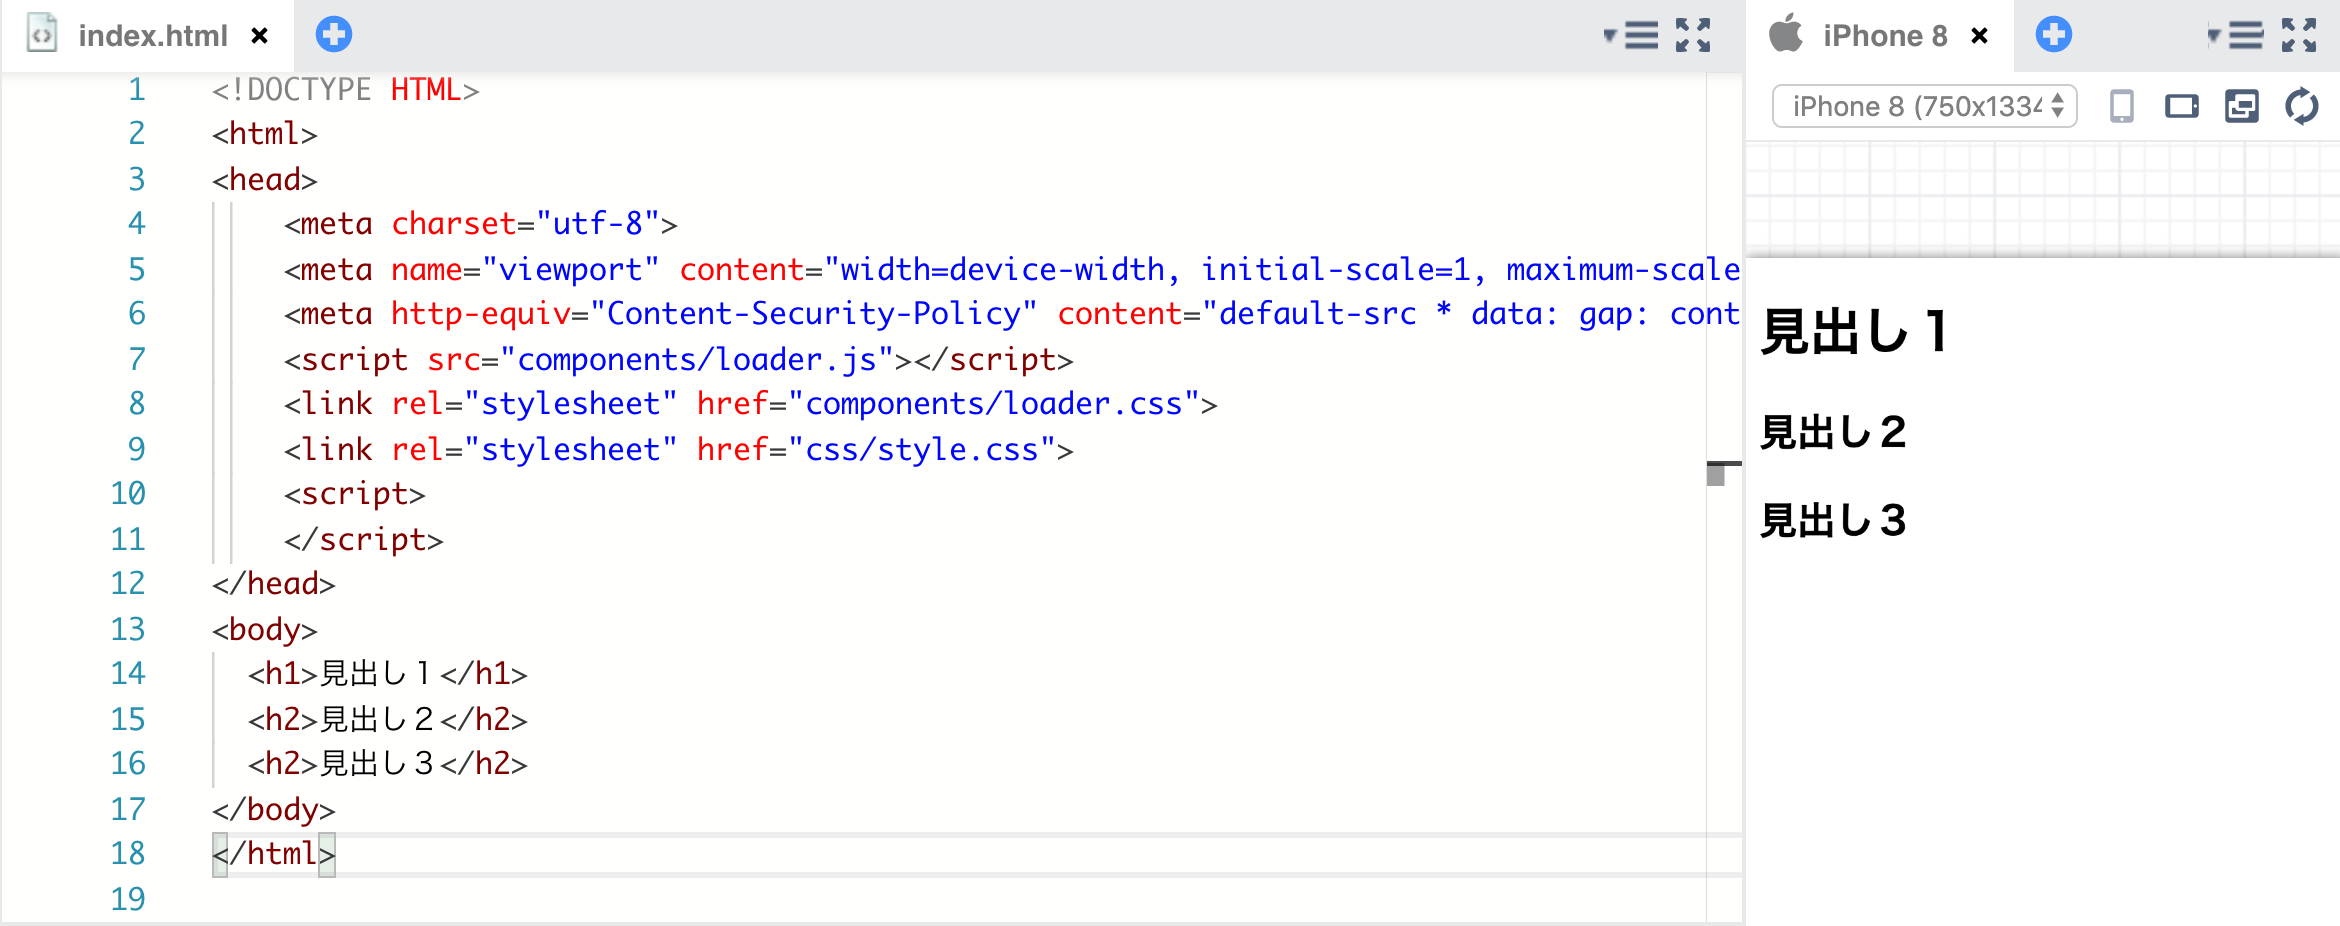
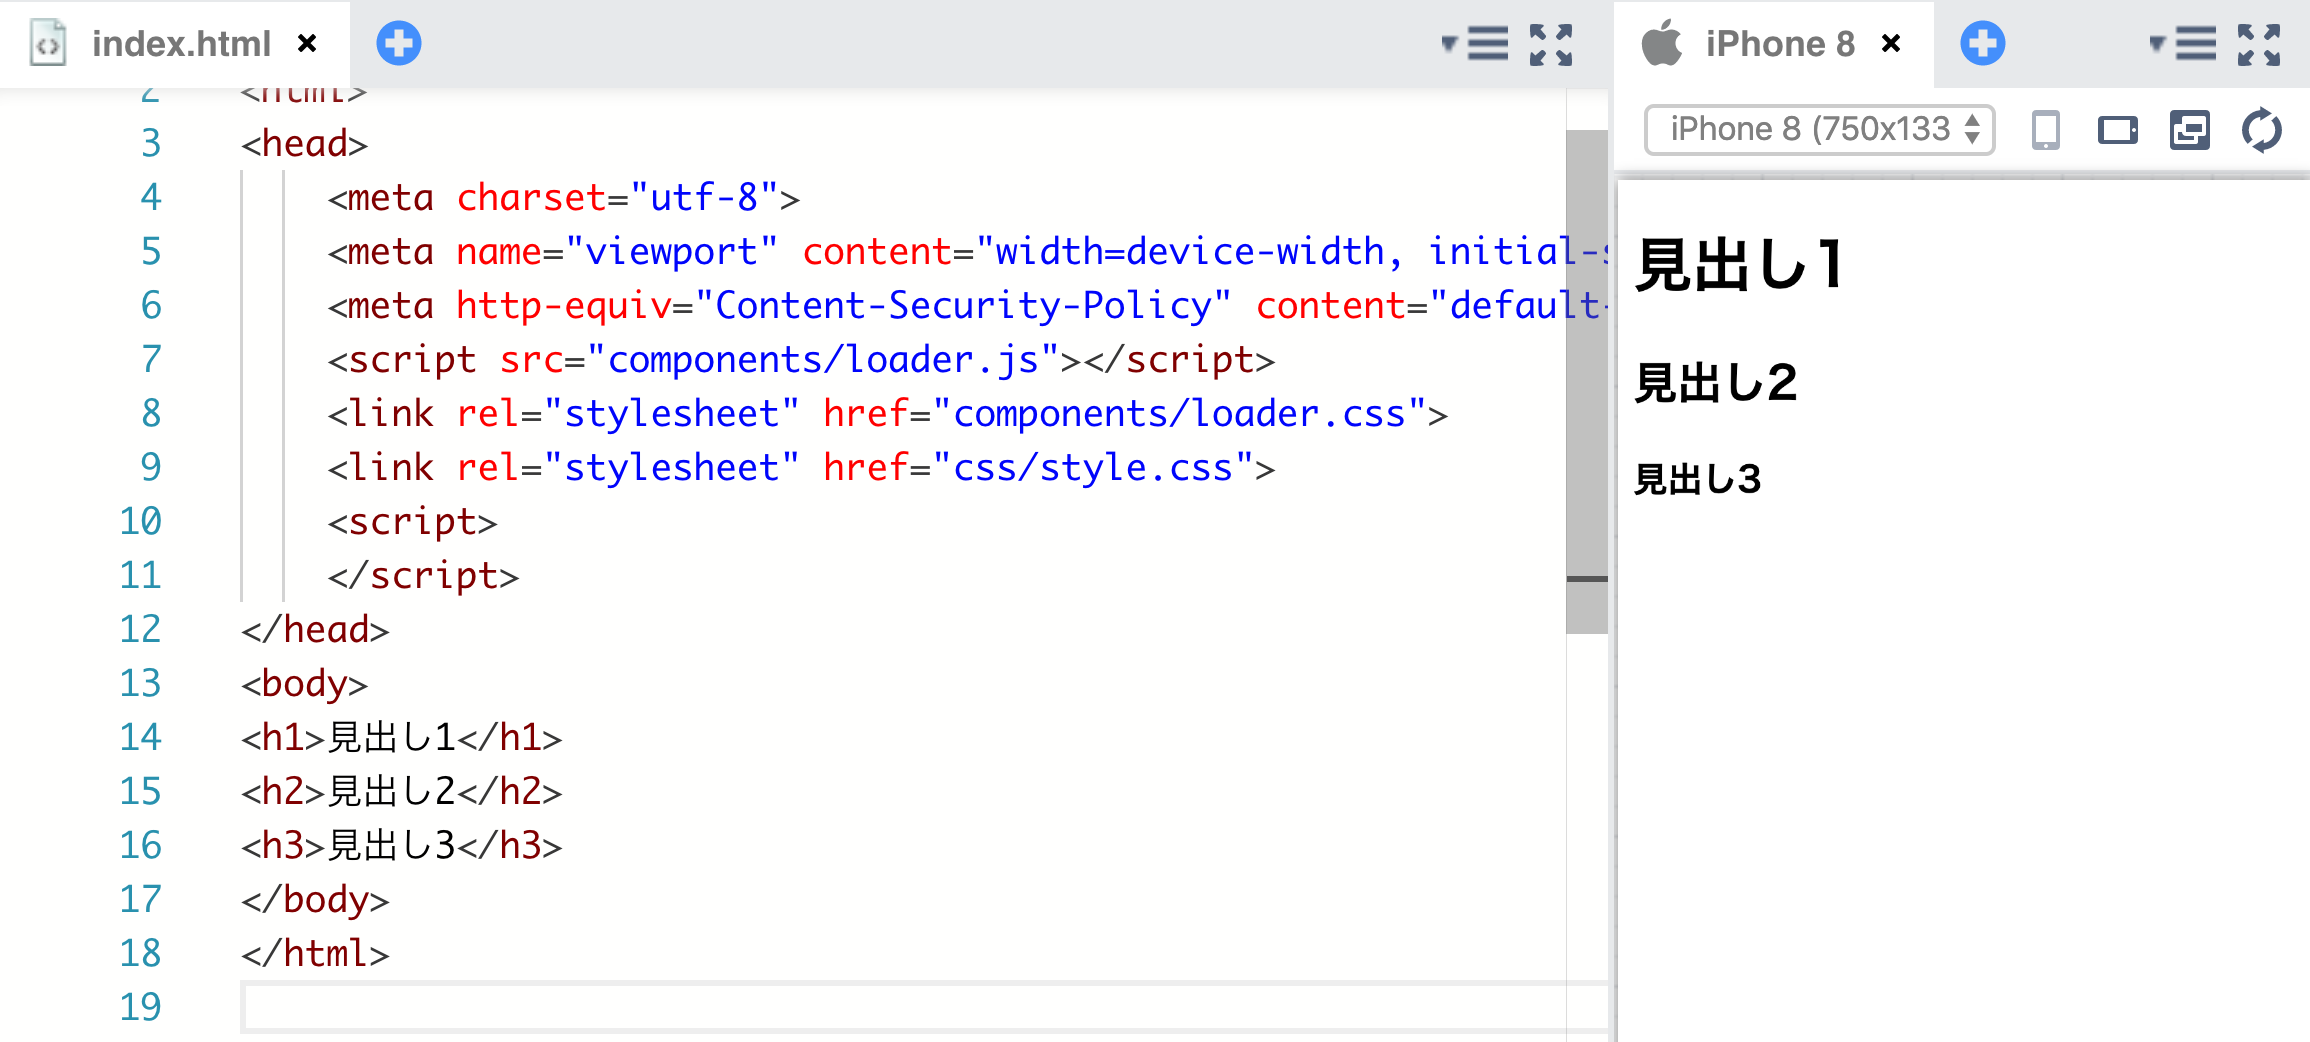
update md

diff --git a/.tmp/style.css b/.tmp/style.css
@@ -1,0 +1,1 @@
+*{box-sizing:border-box}body{font-family:Arial,Helvetica,sans-serif}h1,h2,h3,h4,h5,h6{margin:0 0 20px 0;font-family:Arial,Helvetica,sans-serif}h1{color:#006cb4}h2{color:#f1ae35}h3{color:#6bb1e5}li{margin-bottom:.25em}pre,code{text-align:left;font-family:"Lucida Console",Monaco,monospace;color:#f1ae35;background:#F8F8F8}a,a:visited,a:hover,a:active{color:#212121}img{vertical-align:inherit}blockquote{border-left:8px solid;padding-left:.5em;color:#6bb1e5;text-align:left;margin:1em 0}blockquote>p{margin:0}.remark-code{font-size:.9em}.remark-container{background:#333}.remark-slide-scaler{box-shadow:none}.remark-notes{font-size:1.5em}.remark-slide-content{font-size:28px;padding:1em 2em;color:#212121;background-size:cover}.remark-slide-number{color:#fff;right:1em;opacity:.6;font-size:0.8em;z-index:2}.no-counter .remark-slide-number{display:none}.impact{background-color:#006cb4;vertical-align:middle;text-align:center}.impact,.impact h1,.impact h2{color:#fff}.impact h1{font-size:70px}.full,.full h1,.full h2{color:#fff}.fulliframe{height:calc(66.66667% - 1.2em);width:66.66667%;transform:scale(1.5);transform-origin:0 0;border:0}.bottom-bar{background-color:#006cb4;color:#fff;position:absolute;bottom:0;left:0;right:0;font-size:20px;padding:.8em;text-align:left;z-index:1}.bottom-bar p{margin:0}.impact .bottom-bar,.full .bottom-bar{display:none}.side-layer{position:absolute;left:0;width:100%;padding:0 2em}.middle,.middle img,.middle span{vertical-align:middle}.top{vertical-align:top}.bottom{vertical-align:bottom}.inline-block p,.inline-block ul,.inline-block ol,.inline-block blockquote{display:inline-block;text-align:left}.no-margin,.no-margin>p,.no-margin>pre,.no-margin>ul,.no-margin>ol{margin:0}.no-padding{padding:0}.space-left{padding-left:1em}.space-right{padding-right:1em}.responsive>img{width:100%;height:auto}.contain{background-size:contain}.overlay{box-shadow:inset 0 0 0 9999px rgba(0,0,0,0.5)}.left{text-align:left}.right{text-align:right}.center{text-align:center}.justify{text-align:justify}.primary{color:#006cb4}.alt{color:#f1ae35}.em{color:#6bb1e5}.thin{font-weight:200}.huge{font-size:2em}.big{font-size:1.5em}.small{font-size:.8em}.dark-bg{background-color:#333}.alt-bg{background-color:#f1ae35}.row{width:100%}.row::after{content:'';display:table;clear:both}.row.table{display:table}.row.table [class^="col-"]{float:none;display:table-cell;vertical-align:inherit}[class^="col-"]{float:left}[class^="col-"].inline-block{float:none;display:inline-block}.col-1{width:8.33333%}.col-2{width:16.66667%}.col-3{width:25%}.col-4{width:33.33333%}.col-5{width:41.66667%}.col-6{width:50%}.col-7{width:58.33333%}.col-8{width:66.66667%}.col-9{width:75%}.col-10{width:83.33333%}.col-11{width:91.66667%}.col-12{width:100%}@keyframes fadeIn{from{opacity:0}to{opacity:1}}.animation-fade{animation-duration:300ms;animation-fill-mode:both;animation-timing-function:ease-out}.remark-visible .animation-fade{animation-name:fadeIn}@page{size:1210px 681px;margin:0}@media print{.remark-slide-scaler{width:100% !important;height:100% !important;transform:scale(1) !important;top:0 !important;left:0 !important}}.footnote{position:absolute;bottom:1em}.center{text-align:center}.left{text-align:left}.right_under{position:absolute;bottom:10%;right:10%}.size_large{font-size:1.3em}.size_large_11{font-size:1.1em}.size_large_18{font-size:1.8em}.size_small_9{font-size:0.9em}.size_small_7{font-size:0.7em}.color_pink{color:#c668a8}

diff --git a/.tmp/presentation.html b/.tmp/presentation.html
@@ -1,0 +1,22 @@
+<!DOCTYPE html>
+<html>
+<head>
+  <meta charset="UTF-8">
+  <title></title>
+  <link rel="stylesheet" href="style.css">
+  <script src="remark.min.js"></script>  
+  <script>
+    function create() {
+      return remark.create({
+        sourceUrl: 'presentation.md',
+        ratio: '16:9',
+        highlightLines: true,
+        countIncrementalSlides: false,
+        highlightStyle: 'github'
+      });
+    }
+  </script>
+</head>
+<body onload="slideshow = create()">
+</body>
+</html>

diff --git a/presentation.md b/presentation.md
@@ -31,10 +31,16 @@ class: center, middle, animation-fade
 
 ---
 layout: false
+# 今日の資料
+.center[
+## http://bit.ly/MonacaEasyStartApp
+]
+
+---
 # 教えてくれる人
-## 池田 夏藻（イケダ ナツモ）
 
 .col-7[
+## 池田 夏藻（イケダ ナツモ）
 富士通クラウドテクノロジーズ株式会社<br>
 ニフクラ mobile backend 企画チームに所属<br><br>
 <img src="readme-img/mb_logo.png" alt="mb_logo.png" width="500px">
@@ -43,7 +49,7 @@ layout: false
 
 .col-5[
 .center[
-<img src="readme-img/takano.png" alt="takano.png" width="140px">
+<img src="readme-img/takano.png" alt="takano.png" width="300px">
 .size_small_7[
 ニフクラ mobile backend オリジナルキャラクター タカノくん
 ]
@@ -99,7 +105,7 @@ layout: false
   1.&nbsp;プロフィールアプリの下書き
 ]
 
-ワークシートに作成する内容をプロフィールアプリの下書きしましょう。
+ワークシートに作成する内容をプロフィールアプリの下書きをしましょう。
 
 .center[<img src="readme-img/draft.png" alt="draft.png" width="280px">]
 
@@ -394,7 +400,7 @@ Monacaアカウントの作成は完了です🎉<br>
 
 ## プロジェクトを作る
 
-右側に画面が開きます。 「クラウドIDEで開く」をクリックします。
+右に画面が開きます。「クラウドIDEで開く」をクリックします。
 
 .center[<img src="readme-img/Monaca05.png" alt="Monaca05.png" width="800px">]
 
@@ -431,7 +437,7 @@ Monacaの開発画面は次のようになっています。
   3.&nbsp;Monacaの使い方練習
 ]
 
-それでは使い方の練習をしていきましょう。最初から開かれている index.html ファイルをみてください。 `<body>`と`</body>`の間に書かれた文字がプレビュー画面にも出ていますね👀
+使い方の練習をしていきましょう。編集画面に初めから開かれている .color_pink[__index.html__] ファイルをみてください。<br>`<body>`と`</body>`の間に書かれた文字がプレビュー画面にも出ていますね👀
 
 .center[<img src="readme-img/Monaca06-3.png" alt="Monaca06-3.png" width="750px">]
 
@@ -441,8 +447,8 @@ Monacaの開発画面は次のようになっています。
 ]
 
 `<body>`,`</body>` は「.color_pink[__bodyタグ__]」と言います。<br>
-bodyタグの間に記述した内容がアプリの画面に表示される仕組みになっています。<br>
-bodyタグ内を全て消してみましょう。<br><br>
+bodyタグの間に書いた内容がアプリの画面に表示される仕組みになっています。<br>
+一度bodyタグ内を全て消して書き直してみましょう。<br><br>
 
 .center[<img src="readme-img/Monaca07.png" alt="Monaca07.png" width="500px">]
 
@@ -451,7 +457,7 @@ bodyタグ内を全て消してみましょう。<br><br>
   3.&nbsp;Monacaの使い方練習
 ]
 
-消したところに「こんにちは！」と書いてみましょう。<br><br>
+全部消したら「__こんにちは！__」と書いてみましょう。<br><br>
 
 .center[<img src="readme-img/Monaca07-2.png" alt="Monaca07-2.png" width="500px">]
 
@@ -460,8 +466,8 @@ bodyタグ内を全て消してみましょう。<br><br>
   3.&nbsp;Monacaの使い方練習
 ]
 
-あれ？編集したけどプレビュー画面が変わらないね😢<br>
-プレビュー画面に反映させるには編集したファイル index.html の.color_pink[__保存__]が必要です。<br>保存するには「.color_pink[__Ctrl]__」+「.color_pink[__S__]」キーを同時に押してみましょう。
+あれ？書き直したけどプレビュー画面が変わらないね😢<br>
+プレビュー画面に正しく表示させるには編集したファイル（index.html）を.color_pink[__保存__]しなければなりません。<br>「.color_pink[__Ctrl]__」+「.color_pink[__S__]」キーを同時に押して、保存をしてみましょう。
 
 .center[<img src="readme-img/Monaca08.png" alt="Monaca08.png" width="700px">]
 
@@ -489,11 +495,12 @@ layout: false
   4.&nbsp;プロフィールアプリを作る①（パーツの書き方）
 ]
 
-下書きを元に、`<body>`と`</body>`の間を編集してプロフィールアプリを作ってみましょう！完成イメージはこんな感じです。
+さっき下書きした内容をアプリに表示するように`<body>`と`</body>`の間に書き込んで行きましょう。<br>
+完成イメージはこんな感じです。
 
-.center[<img src="readme-img/complete.png" alt="complete.png" width="200px">]
+.center[<img src="readme-img/complete.png" alt="complete.png" width="180px">]
 
-作業に入る前にいくつかパーツを紹介します☝
+でもどうやって書いたらいいのかな？？書くために必要なパーツを教えます☝
 
 
 
@@ -502,10 +509,10 @@ layout: false
   4.&nbsp;プロフィールアプリを作る①（パーツの書き方）
 ]
 
-* 見出し（タイトル・サブタイトル・小見出し）
- * 見出しにしたい部分を h1タグ（ `<h1>`, `</h1>` ）で囲む
- * h1タグで指定した見出しの中の小見出しには h2タグ を使う
- * h1, h2, h3, …と見出しの大きさは１が一番大きく、数字が大きくなると小さくなります
+## 見出し（タイトル・サブタイトル・小見出し）
+* 見出しにしたい部分を h1タグ（ `<h1>`, `</h1>` ）で囲む
+* h1タグで囲った見出しより小さい見出しには h2タグ を使います
+* h1, h2, h3, …と見出しの大きさは１が一番大きく、数字が大きくなると小さくなります
 
 ```html
 <h1>見出し1</h1>
@@ -513,7 +520,20 @@ layout: false
 <h3>見出し3</h3>
 ```
 
-.center[<img src="readme-img/Monaca10.png" alt="Monaca10.png" width="750px">]
+---
+.bottom-bar[
+  4.&nbsp;プロフィールアプリを作る①（パーツの書き方）
+]
+
+## 見出し（タイトル・サブタイトル・小見出し）
+
+```html
+<h1>見出し1</h1>
+<h2>見出し2</h2>
+<h3>見出し3</h3>
+```
+
+.center[<img src="readme-img/Monaca10.png" alt="Monaca10.png" width="700px">]
 
 
 ---
@@ -521,8 +541,21 @@ layout: false
   4.&nbsp;プロフィールアプリを作る①（パーツの書き方）
 ]
 
-* 段落（自己紹介文）
-  * 段落にしたい部分を pタグ（ `<p>`, `</p>` ）で囲む
+## 段落（自己紹介文）
+* 段落にしたい部分を pタグ（ `<p>`, `</p>` ）で囲む
+
+```html
+<p>段落1</p>
+<p>段落2</p>
+<p>段落3</p>
+```
+
+---
+.bottom-bar[
+  4.&nbsp;プロフィールアプリを作る①（パーツの書き方）
+]
+
+## 段落（自己紹介文）
 
 ```html
 <p>段落1</p>
@@ -537,7 +570,19 @@ layout: false
   4.&nbsp;プロフィールアプリを作る①（パーツの書き方）
 ]
 
-見出しと段落を組み合わせてプロフィールアプリの下書きの内容を画面の中に作ってみましょう！
+### タグを使わないで書くとどうなるの？
+
+改行（次の行にかわること）して書いても、<br>アプリ側では改行されずに表示されてしまいます😖
+
+.center[<img src="readme-img/Monaca11-1.png" alt="Monaca11-1.png" width="750px">]
+
+
+---
+.bottom-bar[
+  4.&nbsp;プロフィールアプリを作る①（パーツの書き方）
+]
+
+.color_pink[__見出し__]と.color_pink[__段落__]を組み合わせて、下書きした内容を画面の中に作ってみましょう！
 
 .center[<img src="readme-img/draft_sample-2.png" alt="draft_sample-2.png" width="280px">]
 
@@ -546,7 +591,7 @@ layout: false
   4.&nbsp;プロフィールアプリを作る①（パーツの書き方）
 ]
 
-見出しと段落を組み合わせてプロフィールアプリの下書きの内容を画面の中に作ってみましょう！
+.color_pink[__見出し__]と.color_pink[__段落__]を組み合わせて、下書きした内容を画面の中に作ってみましょう！
 
 ```html
 <h1>私のホームページアプリ</h1>
@@ -558,28 +603,64 @@ layout: false
 <p>バスケ、算数</p>
 ```
 
-.center[<img src="readme-img/Monaca12.png" alt="Monaca12.png" width="750px">]
+---
+.bottom-bar[
+  4.&nbsp;プロフィールアプリを作る①（パーツの書き方）
+]
+
+.color_pink[__見出し__]と.color_pink[__段落__]を組み合わせて、下書きした内容を画面の中に作ってみましょう！
+
+.center[<img src="readme-img/Monaca12.png" alt="Monaca12.png" width="950px">]
 
 ---
 .bottom-bar[
   4.&nbsp;プロフィールアプリを作る①（パーツの書き方）
 ]
 
+## 画像
+
 文字の入力が終わったら、画像を入れてみましょう！（ちょっと難しくなるよ🙌）
 
-* 画像を用意しましょう
-  * ブラウザの別のタブを開いて、好きな画像をパソコンに保存しましょう
-    * ファイル名「__image.png__」
-    * 保存場所「__デスクトップ__」
+### 画像の準備
+
+ブラウザで別のタブを開いて、好きな画像を探しましょう。
+
+.col-7[
+＜例＞
+* この資料 http://bit.ly/MonacaEasyStartApp を開いて、タカノくんの画像（４ページ目）を使うことにする。
+]
+
+.col-5[
+.center[
+<img src="readme-img/takano.png" alt="takano.png" width="200px">
+.size_small_7[
+]
+]
+]
+
+---
+.bottom-bar[
+  4.&nbsp;プロフィールアプリを作る①（パーツの書き方）
+]
+
+## 画像
+
+画像の上で右クリックをして、「名前を付けて保存」をクリックします。<br>
+保存場所、ファイル名は次のようにしましょう。
+
+* 保存場所「__デスクトップ__」
+* ファイル名「__image.png__」
+
+---
+.bottom-bar[
+  4.&nbsp;プロフィールアプリを作る①（パーツの書き方）
+]
+
+## 画像
+
 * 用意した画像をアプリで表示するために、Monacaに画像をインポートしましょう
   * 画像を取り込むことを「インポート」すると言います☝
 
-.center[
-<img src="readme-img/takano.png" alt="takano.png" width="150px">
-.size_small_7[
-ニフクラ mobile backend オリジナルキャラクター タカノくん
-]
-]
 
 ---
 .bottom-bar[
